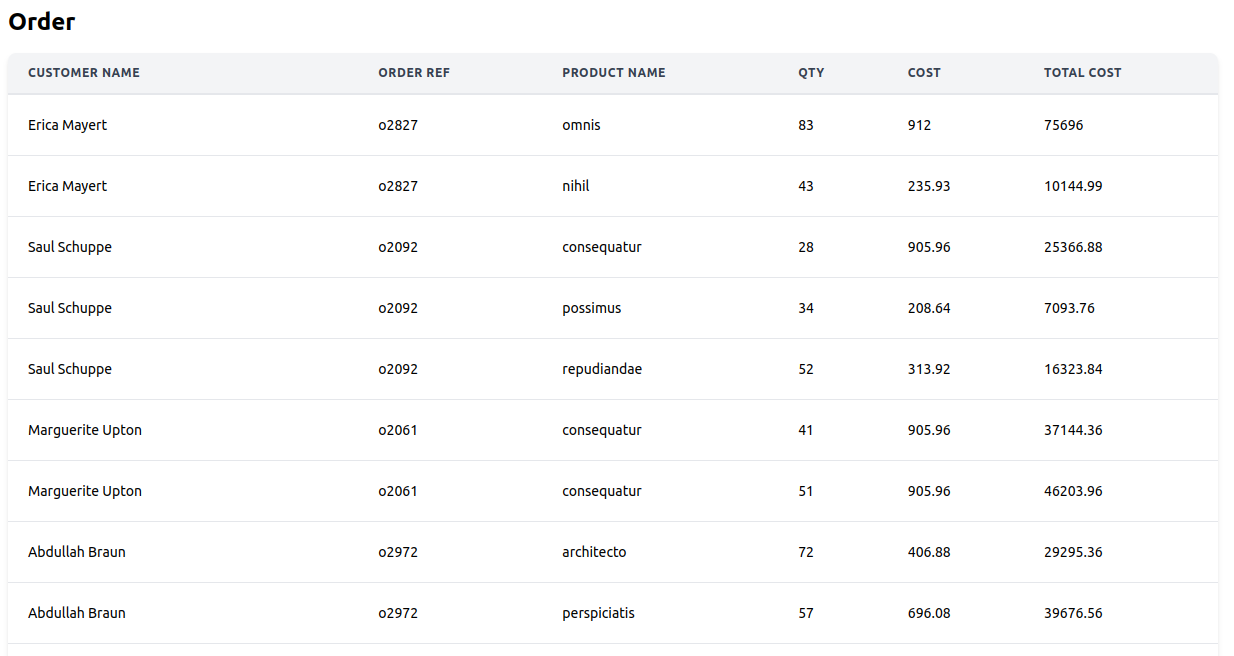
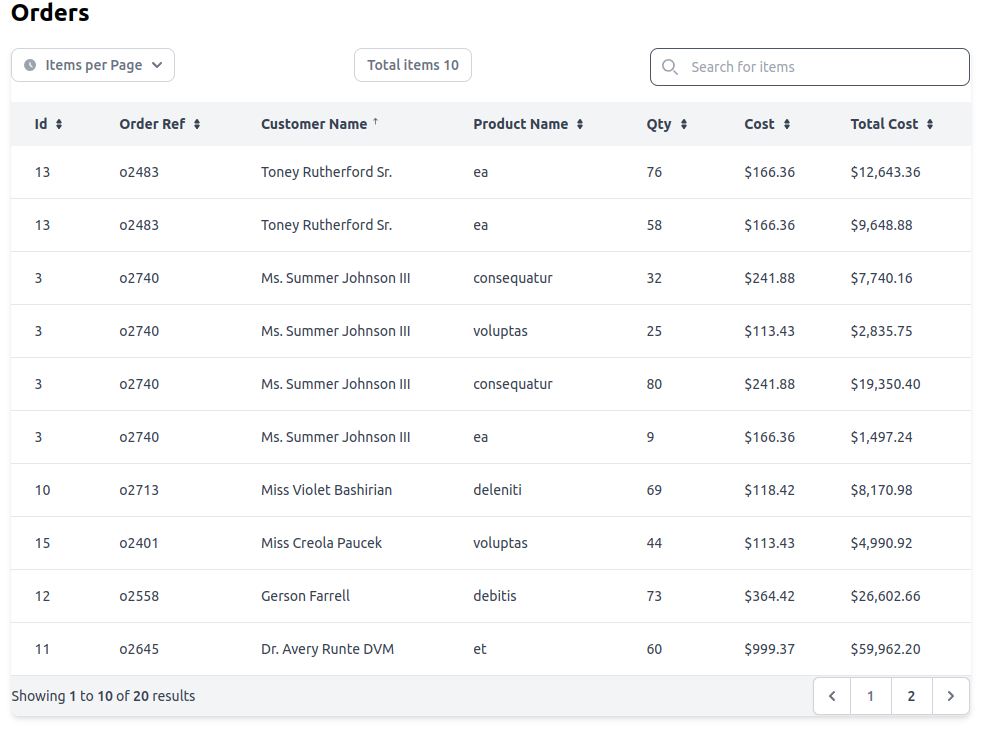
feat #4: improve orders list
- General filter
- Items per page
- Pagination
- Sorted by fields

diff --git a/app/resources/views/livewire/orders-list.blade.php b/app/resources/views/livewire/orders-list.blade.php
@@ -1,52 +1,109 @@
-<div>
-    <table class="min-w-full leading-normal">
+{{--https://flowbite.com/docs/components/tables/#table-foot--}}
+<div class="relative overflow-x-auto shadow-md sm:rounded-lg">
+    <div class="flex items-center justify-between pb-4">
+        <div>
+            <button id="dropdownRadioButton" data-dropdown-toggle="dropdownRadio" class="inline-flex items-center text-gray-500 bg-white border border-gray-300 focus:outline-none hover:bg-gray-100 focus:ring-4 focus:ring-gray-200 font-medium rounded-lg text-sm px-3 py-1.5" type="button">
+                <svg class="w-3 h-3 text-gray-500 dark:text-gray-400 mr-2.5" aria-hidden="true" xmlns="http://www.w3.org/2000/svg" fill="currentColor" viewBox="0 0 20 20">
+                    <path d="M10 0a10 10 0 1 0 10 10A10.011 10.011 0 0 0 10 0Zm3.982 13.982a1 1 0 0 1-1.414 0l-3.274-3.274A1.012 1.012 0 0 1 9 10V6a1 1 0 0 1 2 0v3.586l2.982 2.982a1 1 0 0 1 0 1.414Z"/>
+                </svg>
+                Items per Page
+                <svg class="w-2.5 h-2.5 ml-2.5" aria-hidden="true" xmlns="http://www.w3.org/2000/svg" fill="none" viewBox="0 0 10 6">
+                    <path stroke="currentColor" stroke-linecap="round" stroke-linejoin="round" stroke-width="2" d="m1 1 4 4 4-4"/>
+                </svg>
+            </button>
+            <!-- Dropdown menu -->
+            <div id="dropdownRadio" class="z-10 hidden w-48 bg-white divide-y divide-gray-100 rounded-lg shadow " data-popper-reference-hidden="" data-popper-escaped="" data-popper-placement="top" style="position: absolute; inset: auto auto 0px 0px; margin: 0px; transform: translate3d(522.5px, 3847.5px, 0px);">
+                <ul class="p-3 space-y-1 text-sm text-gray-700 dark:text-gray-200" aria-labelledby="dropdownRadioButton">
+                    @foreach($itemsPerPageList as $value)
+                    <li>
+                        <div class="flex items-center p-2 rounded hover:bg-gray-100 dark:hover:bg-gray-600">
+                            <input wire:model="itemsPerPage"
+                                   type="radio"
+                                   id="itemsPerPage-{{ $value }}"
+                                   value="{{$value}}"
+                                   name="itemsPerPage-{{ $value }}"
+                                   class="w-4 h-4 text-blue-600 bg-gray-100 border-gray-300 focus:ring-blue-500 dark:focus:ring-blue-600 dark:ring-offset-gray-800 dark:focus:ring-offset-gray-800 focus:ring-2 dark:bg-gray-700 dark:border-gray-600">
+                            <label for="itemsPerPage-{{ $value }}"
+                                   class="w-full ml-2 text-sm font-medium text-gray-900 rounded dark:text-gray-300">
+                                {{$value}} items
+                            </label>
+                        </div>
+
+                    </li>
+                    @endforeach
+                </ul>
+            </div>
+
+        </div>
+        <label for="table-search" class="sr-only">Search</label>
+        <div class="inline-flex items-center text-gray-500 bg-white border border-gray-300 focus:outline-none hover:bg-gray-100 focus:ring-4 focus:ring-gray-200 font-medium rounded-lg text-sm px-3 py-1.5">Total items {{$orders->count()}}</div>
+
+        <div class="relative mt-1">
+            <div class="absolute inset-y-0 left-0 flex items-center pl-3 pointer-events-none">
+                <svg class="w-4 h-4 text-gray-500 dark:text-gray-400" aria-hidden="true" xmlns="http://www.w3.org/2000/svg" fill="none" viewBox="0 0 20 20">
+                    <path stroke="currentColor" stroke-linecap="round" stroke-linejoin="round" stroke-width="2" d="m19 19-4-4m0-7A7 7 0 1 1 1 8a7 7 0 0 1 14 0Z"/>
+                </svg>
+            </div>
+            <input type="text" wire:model="searchFields" id="table-search"
+                   class="block p-2 pl-10 text-sm text-gray-900 border border-gray-300 rounded-lg w-80 dark:border-gray-600 dark:placeholder-gray-400"
+                   placeholder="Search for items">
+        </div>
+    </div>
+    <table class="w-full text-sm text-left border-gray-200 bg-gray-100 text-gray-700">
         <thead>
         <tr>
-            <th class="px-5 py-3 border-b-2 border-gray-200 bg-gray-100 text-left text-xs font-semibold text-gray-700 uppercase tracking-wider">
-                Customer Name
-            </th>
-            <th class="px-5 py-3 border-b-2 border-gray-200 bg-gray-100 text-left text-xs font-semibold text-gray-700 uppercase tracking-wider">
-                Order Ref
-            </th>
-            <th class="px-5 py-3 border-b-2 border-gray-200 bg-gray-100 text-left text-xs font-semibold text-gray-700 uppercase tracking-wider">
-                Product Name
-            </th>
-            <th class="px-5 py-3 border-b-2 border-gray-200 bg-gray-100 text-left text-xs font-semibold text-gray-700 uppercase tracking-wider">
-                Qty
-            </th>
-            <th class="px-5 py-3 border-b-2 border-gray-200 bg-gray-100 text-left text-xs font-semibold text-gray-700 uppercase tracking-wider">
-                Cost
-            </th>
-            <th class="px-5 py-3 border-b-2 border-gray-200 bg-gray-100 text-left text-xs font-semibold text-gray-700 uppercase tracking-wider">
-                Total Cost
-            </th>
+            @foreach(['id','order_ref','customer_name','product_name','qty','cost', 'total_cost'] as $element)
+                <th scope="col" class="px-6 py-3 cursor-pointer"
+                    wire:click="sortClick('{{$element}}')">
+                    <div class="flex items-center">
+                        {{ ucwords(str_replace('_', ' ', $element)) }}
+                        @if($sortElement === $element)
+                            @if($sortType === 'asc')
+                                <svg class="w-3 h-3 ml-1.5" aria-hidden="true" xmlns="http://www.w3.org/2000/svg" fill="currentColor" viewBox="0 0 24 24">
+                                    <path stroke="currentColor" stroke-linecap="round" stroke-linejoin="round" stroke-width="1.3" d="M5 1v12m0 0 4-4m-4 4L1 9"/>
+                                </svg>
+                            @else
+                                <svg class="w-3 h-3 ml-1.5" aria-hidden="true" xmlns="http://www.w3.org/2000/svg" fill="currentColor" viewBox="0 0 24 24">
+                                    <path stroke="currentColor" stroke-linecap="round" stroke-linejoin="round" stroke-width="1.3" d="M5 13V1m0 0L1 5m4-4 4 4"/>
+                                </svg>
+                            @endif
+                        @else
+                            <svg class="w-3 h-3 ml-1.5" aria-hidden="true" xmlns="http://www.w3.org/2000/svg" fill="currentColor" viewBox="0 0 24 24">
+                                <path d="M8.574 11.024h6.852a2.075 2.075 0 0 0 1.847-1.086 1.9 1.9 0 0 0-.11-1.986L13.736 2.9a2.122 2.122 0 0 0-3.472 0L6.837 7.952a1.9 1.9 0 0 0-.11 1.986 2.074 2.074 0 0 0 1.847 1.086Zm6.852 1.952H8.574a2.072 2.072 0 0 0-1.847 1.087 1.9 1.9 0 0 0 .11 1.985l3.426 5.05a2.123 2.123 0 0 0 3.472 0l3.427-5.05a1.9 1.9 0 0 0 .11-1.985 2.074 2.074 0 0 0-1.846-1.087Z"/>
+                            </svg>
+                        @endif
+                    </div>
+                </th>
+            @endforeach
         </tr>
         </thead>
         <tbody>
-        @foreach($orders as $order)
-            @foreach($order->ordersLines as $orderLine)
-                <tr>
-                    <td class="px-5 py-5 border-b border-gray-200 bg-white text-sm">
-                        {{ $order->customer_name }}
-                    </td>
-                    <td class="px-5 py-5 border-b border-gray-200 bg-white text-sm">
-                        {{ $order->order_ref }}
-                    </td>
-                    <td class="px-5 py-5 border-b border-gray-200 bg-white text-sm">
-                        {{ $orderLine->product->name }}
-                    </td>
-                    <td class="px-5 py-5 border-b border-gray-200 bg-white text-sm">
-                        {{ $orderLine->qty }}
-                    </td>
-                    <td class="px-5 py-5 border-b border-gray-200 bg-white text-sm">
-                        {{ $orderLine->product->cost }}
-                    </td>
-                    <td class="px-5 py-5 border-b border-gray-200 bg-white text-sm">
-                        {{ $orderLine->qty * $orderLine->product->cost }}
-                    </td>
+        @if(!$orders->count())
+            <tr>
+                <td colspan="7" class="text-center">
+                    <div>No se encontraron resultados</div>
+                </td>
+            </tr>
+        @else
+            @foreach($orders as $order)
+                <tr class="bg-white border-b">
+                    @foreach($order->getAttributes() as $column => $value)
+                        <td class="px-6 py-4">
+                            {{ $value }}
+                        </td>
+                    @endforeach
                 </tr>
             @endforeach
-        @endforeach
+        @endif
         </tbody>
+        <tfoot>
+            <tr>
+                <td colspan="7" class="text-center">
+                    <div class="text-center">
+                        {{$orders->links()}}
+                    </div>
+                </td>
+            </tr>
+        </tfoot>
     </table>
 </div>

diff --git a/app/app/Http/Livewire/OrdersList.php b/app/app/Http/Livewire/OrdersList.php
@@ -4,14 +4,91 @@ namespace App\Http\Livewire;
 
 use App\Models\Orders;
 use Livewire\Component;
+use Livewire\WithPagination;
+use Illuminate\Support\Facades\DB;
 
 class OrdersList extends Component
 {
-    public $orders;
+    const ASCENDING = 'asc', DESCENDING = 'desc';
+
+    // Simulacion datos configurados en db
+    const SORT_CONFIG = ['element' => 'id', 'type' => self::DESCENDING];
+    const ITEMS_PER_PAGE_CONFIG = [
+        'default'=> 10,
+        'items'=> [5, 10, 15, 20, 100]
+    ];
+
+    use WithPagination;
+
+    private $orders;
+    protected $queryString = [
+        'searchFields'  => ['except' => ''],
+        'sortType'      => ['except' => self::SORT_CONFIG['type']],
+        'sortElement'   => ['except' => self::SORT_CONFIG['element']],
+        'itemsPerPage'  => ['except' => self::ITEMS_PER_PAGE_CONFIG['default']],
+    ];
+
+    public
+        $searchFields = '',
+        $itemsPerPage = self::ITEMS_PER_PAGE_CONFIG['default'],
+        $itemsPerPageList = self::ITEMS_PER_PAGE_CONFIG['items'],
+        $sortElement = self::SORT_CONFIG['element'],
+        $sortType = self::SORT_CONFIG['type'];
+
+    /**
+     * Reder
+     *
+     * @return \Illuminate\Contracts\View\View
+     */
     public function render()
     {
-        $this->orders = Orders::with('ordersLines.product')->get();
+        $searchTerm = '%' . $this->searchFields . '%';
 
-        return view('livewire.orders-list');
+        $this->orders = Orders::select(
+                'orders.id as id',
+                'order_ref',
+                'customer_name',
+                'products.name as product_name',
+                'orders_lines.qty AS qty',
+                DB::raw('CONCAT("$ ", FORMAT(products.cost, 2)) AS cost'),
+                DB::raw('CONCAT("$ ", FORMAT(orders_lines.qty * products.cost, 2)) AS total_cost')
+            )
+            ->join('orders_lines', 'orders.id', '=', 'orders_lines.order_id')
+            ->join('products', 'orders_lines.product_id', '=', 'products.id')
+            ->where(function ($query) use ($searchTerm) {
+                $query->where('customer_name', 'like', $searchTerm)
+                    ->orWhere('orders.order_ref', 'like', $searchTerm)
+                    ->orWhere('products.name', 'like', $searchTerm);
+            })
+            ->orderBy($this->sortElement, $this->sortType)
+            ->paginate($this->itemsPerPage);
+
+        return view('livewire.orders-list', [
+            'orders' => $this->orders
+        ]);
+    }
+
+    /**
+     * SortClick Action
+     *
+     * @param $element
+     * @return void
+     */
+    public function sortClick($element){
+        if ($this->sortElement === $element) {
+            $this->sortType = ($this->sortType === self::DESCENDING) ? self::ASCENDING : self::DESCENDING;
+        } else {
+            $this->sortElement = $element;
+            $this->sortType = self::ASCENDING;
+        }
+    }
+
+    /**
+     * Required pagination
+     *
+     * @return void
+     */
+    public function updatingSearchFields(){
+
     }
 }

diff --git a/app/resources/views/home.blade.php b/app/resources/views/home.blade.php
@@ -2,23 +2,23 @@
 <head>
     <meta charset="UTF-8">
     <meta name="viewport" content="width=device-width, initial-scale=1.0">
-    <script src="https://cdn.tailwindcss.com"></script>
 </head>
 <body>
-<div class="container mx-auto px-4 sm:px-8">
-    <div class="py-8">
-        <div>
-            <h2 class="text-2xl font-semibold leading-tight">Order</h2>
-        </div>
-        <div class="-mx-4 sm:-mx-8 px-4 sm:px-8 py-4 overflow-x-auto">
-            <div
-                class="inline-block min-w-full shadow-md rounded-lg overflow-hidden"
-            >
-                @livewire('orders-list')
+    <div class="container mx-auto px-4 sm:px-8">
+        <div class="py-8">
+            <div>
+                <h2 class="text-2xl font-semibold leading-tight">Orders</h2>
+            </div>
+            <div class="-mx-4 sm:-mx-8 px-4 sm:px-8 py-4 overflow-x-auto">
+                <div class="inline-block min-w-full shadow-md rounded-lg overflow-hidden">
+                    @livewire('orders-list')
+                </div>
             </div>
         </div>
     </div>
-</div></div>
+    @livewireScripts
+    <script src="https://cdnjs.cloudflare.com/ajax/libs/flowbite/2.0.0/flowbite.min.js"></script>
+    <script src="https://cdn.tailwindcss.com"></script>
 </body>
 </html>
 

diff --git a/app/config/cache.php b/app/config/cache.php
@@ -15,7 +15,8 @@ return [
     |
     */
 
-    'default' => env('CACHE_DRIVER', 'file'),
+    #'default' => env('CACHE_DRIVER', 'file'),
+    'default' => env('CACHE_DRIVER', 'array'),
 
     /*
     |--------------------------------------------------------------------------

diff --git a/README.md b/README.md
@@ -182,7 +182,10 @@ bin/artisan mm:salesorders:total
 
 The data generated in the previous tasks is displayed in the **root url** of the project
 
-The implicit requirements of this task are in preparation, see issue #4
+- General filter
+- Items per page
+- Pagination
+- Sorted by fields
 
 <img src="docs/img/show_data_fe.png" height="400" >
 
